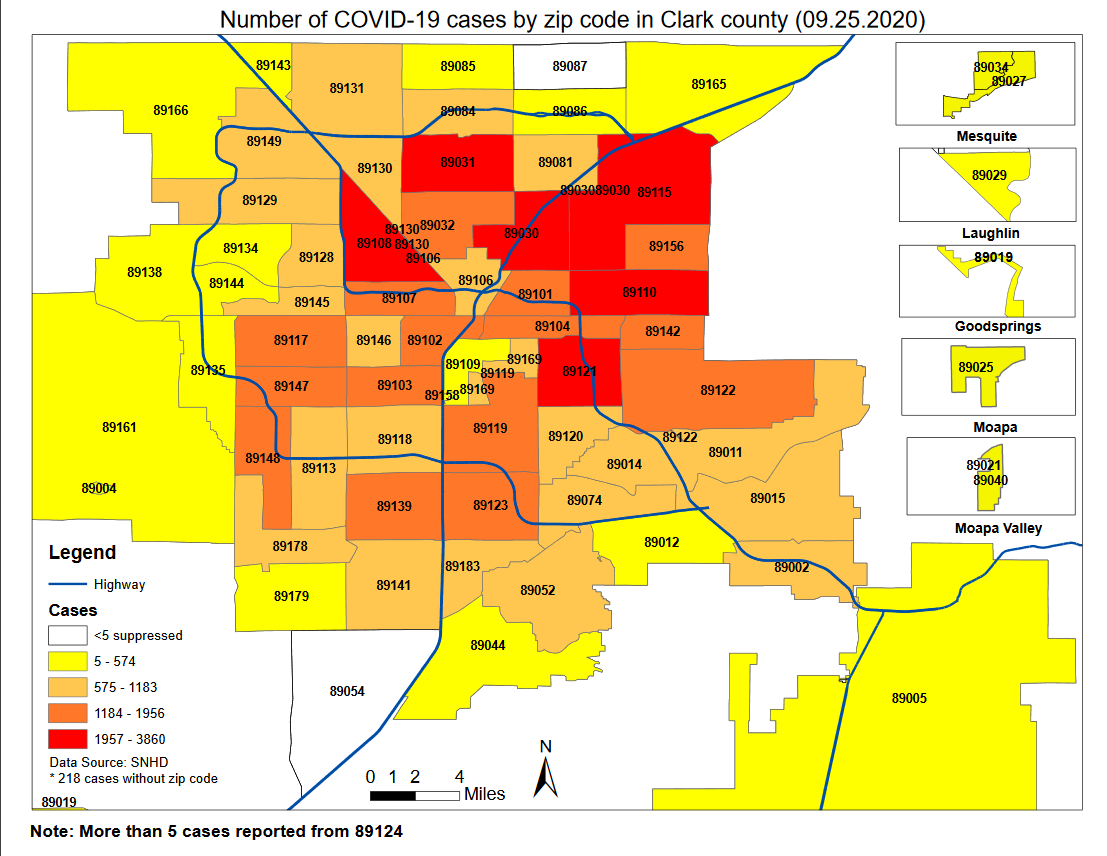
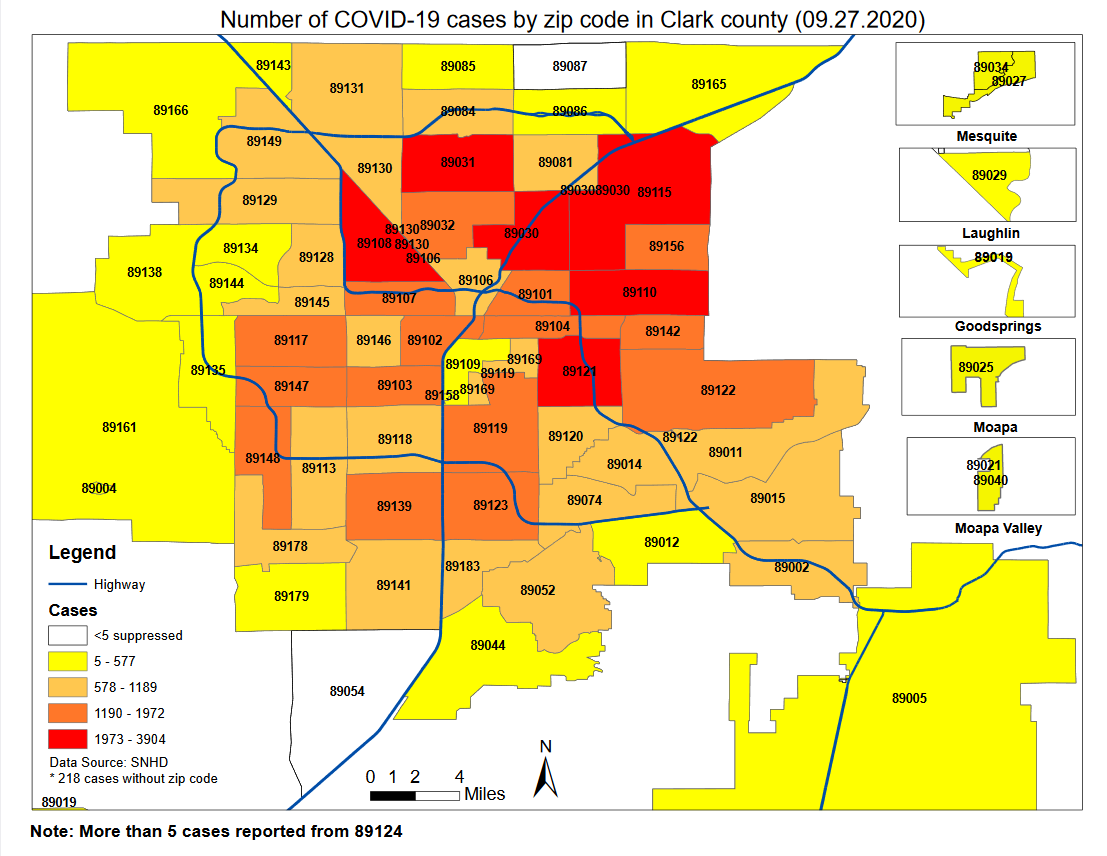
Day 208

diff --git a/src/pages/clarkcounty.js b/src/pages/clarkcounty.js
@@ -224,6 +224,7 @@ class ClarkPage extends Component {
 				'9/24/20',
 				'9/25/20',
 				'9/26/20',
+				'9/27/20',
 			],
 			datasets: [
 				{
@@ -437,6 +438,7 @@ class ClarkPage extends Component {
 						65583,
 						66008,
 						66262,
+						66620,
 					],
 				},
 			],
@@ -651,6 +653,7 @@ class ClarkPage extends Component {
 				'9/24/20',
 				'9/25/20',
 				'9/26/20',
+				'9/27/20',
 			],
 			datasets: [
 				{
@@ -864,6 +867,7 @@ class ClarkPage extends Component {
 						409,
 						425,
 						254,
+						358,
 					],
 				},
 			],
@@ -1058,6 +1062,7 @@ class ClarkPage extends Component {
 				'9/24/20',
 				'9/25/20',
 				'9/26/20',
+				'9/27/20',
 			],
 			datasets: [
 				{
@@ -1251,6 +1256,7 @@ class ClarkPage extends Component {
 						6179,
 						6231,
 						6245,
+						6256,
 					],
 				},
 			],
@@ -1444,6 +1450,7 @@ class ClarkPage extends Component {
 				'9/24/20',
 				'9/25/20',
 				'9/26/20',
+				'9/27/20',
 			],
 			datasets: [
 				{
@@ -1637,6 +1644,7 @@ class ClarkPage extends Component {
 						54,
 						52,
 						14,
+						11,
 					],
 				},
 			],
@@ -1851,6 +1859,7 @@ class ClarkPage extends Component {
 				'9/24/20',
 				'9/25/20',
 				'9/26/20',
+				'9/27/20',
 			],
 			datasets: [
 				{
@@ -2063,6 +2072,7 @@ class ClarkPage extends Component {
 						1368,
 						1377,
 						1379,
+						1379,
 					],
 					backgroundColor: 'maroon',
 				},
@@ -2266,6 +2276,7 @@ class ClarkPage extends Component {
 				'9/24/20',
 				'9/25/20',
 				'9/26/20',
+				'9/27/20',
 			],
 			datasets: [
 				{
@@ -2467,6 +2478,7 @@ class ClarkPage extends Component {
 						8,
 						9,
 						2,
+						0,
 					],
 				},
 			],
@@ -2681,6 +2693,7 @@ class ClarkPage extends Component {
 				'9/24/20',
 				'9/25/20',
 				'9/26/20',
+				'9/27/20',
 			],
 			datasets: [
 				{
@@ -2891,8 +2904,9 @@ class ClarkPage extends Component {
 						7.3,
 						7.5,
 						7.8,
-						7.9,
-						8.1,
+						7.8,
+						8.0,
+						8.4,
 						null,
 						null,
 						null,
@@ -2971,6 +2985,7 @@ class ClarkPage extends Component {
 						null,
 						null,
 						null,
+						6.9,
 						6.9,
 						6.9,
 						6.9,
@@ -3329,6 +3344,7 @@ class ClarkPage extends Component {
 						3.9,
 						3.9,
 						3.9,
+						3.9,
 					],
 				},
 			],
@@ -3339,7 +3355,7 @@ class ClarkPage extends Component {
 			datasets: [
 				{
 					label: 'Age of Cases',
-					data: [1362, 5153, 8464, 31585, 12760, 6668],
+					data: [1380, 5213, 8559, 31866, 12864, 6722],
 					backgroundColor: [
 						'rgb(54, 162, 235)', //blue
 						'rgb(255, 99, 132)', //salmon
@@ -3357,7 +3373,7 @@ class ClarkPage extends Component {
 			datasets: [
 				{
 					label: 'Sex',
-					data: [33768, 31867, 373],
+					data: [34076, 32176, 368],
 					backgroundColor: [
 						'rgb(255, 99, 132)',
 						'rgb(54, 162, 235)',
@@ -3399,8 +3415,8 @@ class ClarkPage extends Component {
 											</div>
 										</div>
 										<div className='card-value pt-4'>
-											<h1>66,262</h1>
-											<h2 className='is_salmon'>+ 254</h2>
+											<h1>66,620</h1>
+											<h2 className='is_salmon'>+ 358</h2>
 										</div>
 									</div>
 								</div>
@@ -3412,8 +3428,8 @@ class ClarkPage extends Component {
 											</div>
 										</div>
 										<div className='card-value pt-4'>
-											<h1>6,245</h1>
-											<h2 className='is_salmon'>+ 14</h2>
+											<h1>6,256</h1>
+											<h2 className='is_salmon'>+ 11</h2>
 										</div>
 									</div>
 								</div>
@@ -3425,8 +3441,8 @@ class ClarkPage extends Component {
 											</div>
 										</div>
 										<div className='card-value pt-4'>
-											<h1>92.2%</h1>
-											<h2 className='is_salmon'>- 0.0%</h2>
+											<h1>91.9%</h1>
+											<h2 className='is_salmon'>- 0.2%</h2>
 										</div>
 									</div>
 								</div>
@@ -3439,7 +3455,7 @@ class ClarkPage extends Component {
 										</div>
 										<div className='card-value pt-4'>
 											<h1>1,379</h1>
-											<h2 className='is_salmon'>+ 2</h2>
+											<h2 className='is_salmon'>+ 0</h2>
 										</div>
 									</div>
 								</div>

diff --git a/src/pages/nevada.js b/src/pages/nevada.js
@@ -222,6 +222,7 @@ class NevadaPage extends Component {
 				'9/24/20',
 				'9/25/20',
 				'9/26/20',
+				'9/27/20',
 			],
 			datasets: [
 				{
@@ -434,6 +435,7 @@ class NevadaPage extends Component {
 						77753,
 						78355,
 						78728,
+						79191,
 					],
 					fill: false, // Don't fill area under the line
 					backgroundColor: '#933A16', // Line color
@@ -649,6 +651,7 @@ class NevadaPage extends Component {
 				'9/24/20',
 				'9/25/20',
 				'9/26/20',
+				'9/27/20',
 			],
 			datasets: [
 				{
@@ -862,6 +865,7 @@ class NevadaPage extends Component {
 						556,
 						602,
 						373,
+						463,
 					],
 					fill: false, // Don't fill area under the line
 					backgroundColor: '#933A16', // Bar color
@@ -1077,6 +1081,7 @@ class NevadaPage extends Component {
 				'9/24/20',
 				'9/25/20',
 				'9/26/20',
+				'9/27/20',
 			],
 			datasets: [
 				{
@@ -1289,6 +1294,7 @@ class NevadaPage extends Component {
 						1579,
 						1579,
 						1580,
+						1580,
 					],
 					backgroundColor: 'maroon',
 				},
@@ -1492,6 +1498,7 @@ class NevadaPage extends Component {
 				'9/24/20',
 				'9/25/20',
 				'9/26/20',
+				'9/27/20',
 			],
 			datasets: [
 				{
@@ -1693,6 +1700,7 @@ class NevadaPage extends Component {
 						5,
 						0,
 						1,
+						0,
 					],
 				},
 			],
@@ -1907,6 +1915,7 @@ class NevadaPage extends Component {
 				'9/24/20',
 				'9/25/20',
 				'9/26/20',
+				'9/27/20',
 			],
 			datasets: [
 				{
@@ -2114,6 +2123,7 @@ class NevadaPage extends Component {
 						10.0,
 						10.0,
 						10.0,
+						9.9,
 						9.9,
 						9.9,
 						9.9,
@@ -2333,9 +2343,10 @@ class NevadaPage extends Component {
 						6.7,
 						7.0,
 						7.0,
-						7.4,
+						7.3,
 						7.6,
-						7.5,
+						7.7,
+						8.1,
 						null,
 					],
 				},
@@ -2413,6 +2424,7 @@ class NevadaPage extends Component {
 						null,
 						null,
 						null,
+						11.0,
 						11.0,
 						11.0,
 						11.0,
@@ -2769,6 +2781,7 @@ class NevadaPage extends Component {
 						6.1,
 						6.1,
 						6.1,
+						6.1,
 					],
 				},
 			],
@@ -2804,8 +2817,8 @@ class NevadaPage extends Component {
 										</div>
 									</div>
 									<div className='card-value pt-4'>
-										<h1>688,073</h1>
-										<h2 className='is_salmon'>+ 3,277</h2>
+										<h1>691,831</h1>
+										<h2 className='is_salmon'>+ 3,758</h2>
 									</div>
 								</div>
 							</div>
@@ -2817,8 +2830,8 @@ class NevadaPage extends Component {
 										</div>
 									</div>
 									<div className='card-value pt-4'>
-										<h1>610,228</h1>
-										<h2 className='is_salmon'>+ 2,905</h2>
+										<h1>613,482</h1>
+										<h2 className='is_salmon'>+ 3,254</h2>
 									</div>
 								</div>
 							</div>
@@ -2830,8 +2843,8 @@ class NevadaPage extends Component {
 										</div>
 									</div>
 									<div className='card-value pt-4'>
-										<h1>78,728</h1>
-										<h2 className='is_salmon'>+ 373</h2>
+										<h1>79,191</h1>
+										<h2 className='is_salmon'>+ 463</h2>
 									</div>
 								</div>
 							</div>
@@ -2844,7 +2857,7 @@ class NevadaPage extends Component {
 									</div>
 									<div className='card-value pt-4'>
 										<h1>1,580</h1>
-										<h2 className='is_salmon'>+ 3</h2>
+										<h2 className='is_salmon'>+ 0</h2>
 									</div>
 								</div>
 							</div>
